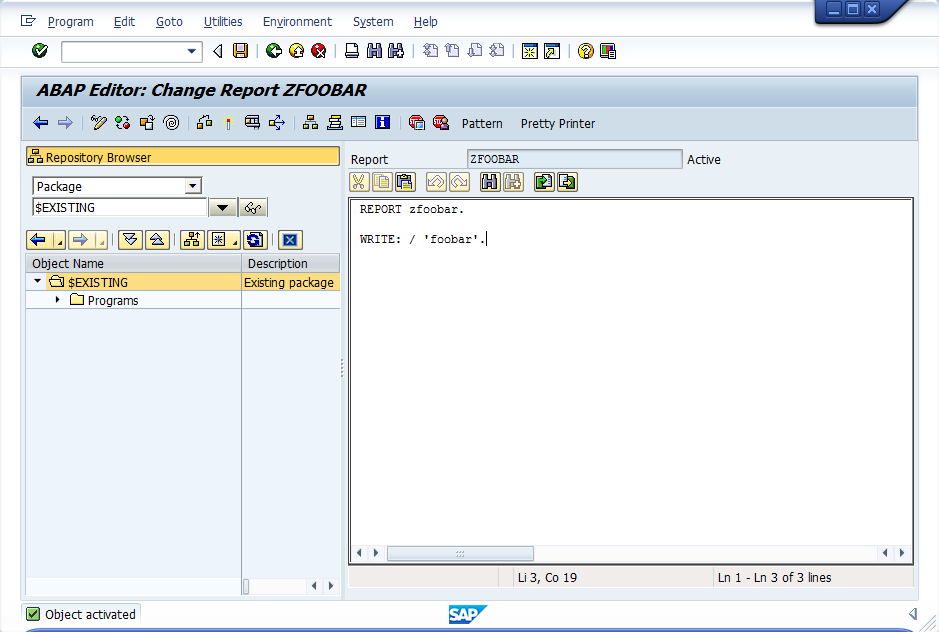
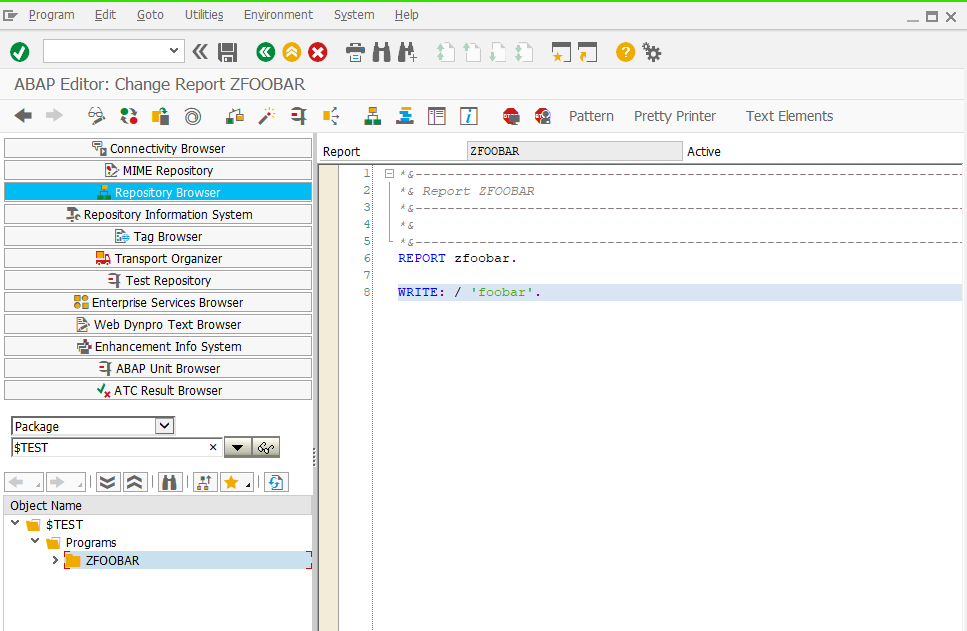
Issue 3112: +Online instead of +Clone Button (#3115)
* Create pull.yml

* Update zcl_abapgit_git_transport.clas.abap

* Update zcl_abapgit_git_transport.clas.abap

* Update pull.yml

* Delete pull.yml

* Updated images

* Update guide-moving-package.md

* Add files via upload

* Add files via upload

* Delete existing_package.png

* Add files via upload

* Delete existing_package.png

* Add files via upload

diff --git a/docs/guide-moving-package.md b/docs/guide-moving-package.md
@@ -4,18 +4,18 @@ category: online projects
 order: 50
 ---
 
-You have an existing package in your system that you want to copy to a new git repository,
+You have an existing package in your system that you want to copy to a new git repository:
 
 ![](img/existing_package.png)
 
-Initialize the git repository, make sure it is not emtpy,
+Initialize the git repository, make sure it is not emtpy:
 
 ![](img/existing_repo.png)
 
-In abapGit, clone the repository,
+In abapGit, clone the repository via the +Online button:
 
 ![](img/existing_clone.png)
 
-The existing objects will show up in the worklist making it possible to commit the objects to the git repository,
+The existing objects will show up in the worklist making it possible to commit the objects to the git repository:
 
 ![](img/existing_result.png)
